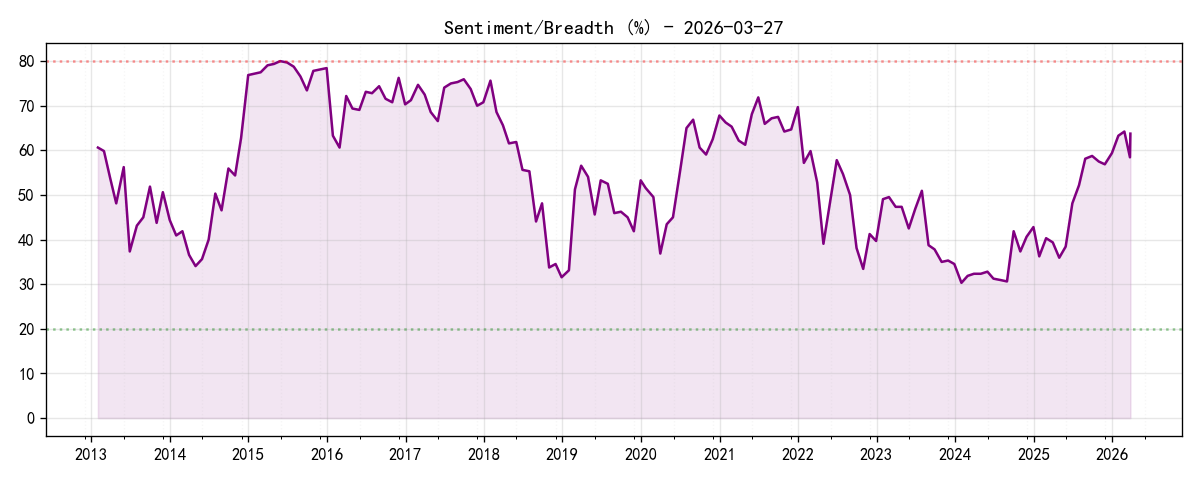
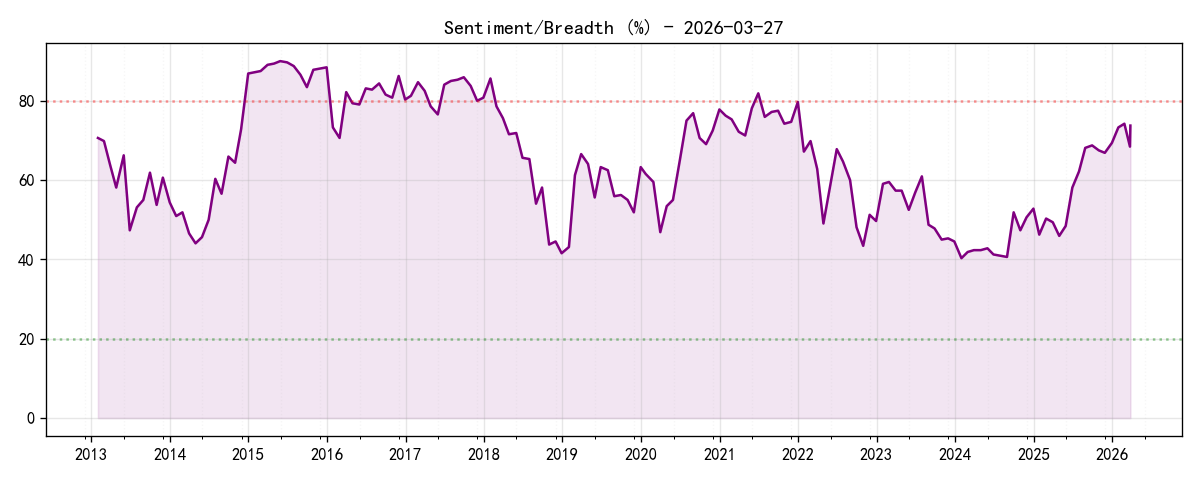
deploy_real_breadth_in_4d

diff --git a/index.html b/index.html
@@ -47,24 +47,15 @@
             <img class="report-img" src="market_temp_4d_sentiment.png" alt="Sentiment">
         </div>
 
-        <div class="section">
-            <div class="section-title">📈 3. 温度计 vs 指数走势对比</div>
-            <p style="text-align:center; color:#666;">黑色实线：4D温度 | 灰色实线：价格 | 蓝色虚线：PE分位</p>
-            <img class="report-img" src="market_temp_vs_index_compare.png" alt="Comparison">
-        </div>
-
         
         <div class="section">
-            <div class="section-title">📡 4. 前瞻雷达：多维情绪与广度</div>
+            <div class="section-title">📈 3. 温度计 vs 指数走势对比</div>
             <div class="chart-container" style="text-align: center;">
-                <p style="text-align: center; color: #666; margin-bottom: 20px;">
-                    <strong>雷达 A (杠杆)</strong>: 观察两融意愿。
-                    <br>
-                    <strong>雷达 B (真实广度)</strong>: 红色指标代表全市场股价站上 20 日均线的个股占比。如果指数上涨但绿色线(占比)回落，代表“虚假繁荣”，普跌风险加剧。
-                </p>
-                <img class="report-img" src="forward_radar_multi.png" alt="Multi Radar" style="width: 100%; max-width: 950px;">
+                <p style="color: #666; font-size: 14px; margin-bottom: 20px;">灰色曲线代表中证全指价格，黑色曲线代表 4D 综合温度。观察两者背离或同步性。</p>
+                <img class="report-img" src="market_temp_vs_index_compare.png" alt="Comparison" style="width: 100%; max-width: 900px;">
             </div>
         </div>
+    
     
 </body>
 </html>

diff --git a/daily_cloud_update.py b/daily_cloud_update.py
@@ -202,25 +202,60 @@ def update_html(latest):
 
     with open(html_path, 'w', encoding='utf-8') as f: f.write(content)
 
+def get_real_breadth():
+    apikey = os.environ.get('MX_APIKEY', "mkt_Zfo3aEhBQ1R4cj3GLsSvZ74lJGpF3quBoTlevpWeloQ")
+    url = "https://mkapi2.dfcfs.com/finskillshub/api/claw/query"
+    headers = {"apikey": apikey, "Content-Type": "application/json"}
+    payload = {"toolQuery": "查询全部A股(001071.BLOCK)目前的'收盘价高于20日均线个股占比'(100000000018659)最新数值"}
+    try:
+        r = requests.post(url, headers=headers, json=payload, timeout=20)
+        data = r.json()
+        item = data['data']['data']['searchDataResultDTO']['dataTableDTOList'][0]
+        # The value is usually in the first key that isn't headName
+        val_key = [k for k in item['table'].keys() if k != 'headName'][0]
+        val = float(str(item['table'][val_key][0]).replace('%', ''))
+        return val
+    except:
+        return 50.0 # Default fallback
+
 def run_report():
     update_csv()
     csv_path = 'pe_pb_2013_2026.csv'
     df = pd.read_csv(csv_path)
     df['date'] = pd.to_datetime(df['date'])
     df = df.sort_values('date').drop_duplicates('date')
+    
+    # Calculation Logic
     df['erp'] = (1.0 / df['pe']) - (df['bond10y'] / 100.0)
     df['pe_pct'] = df['pe'].rank(pct=True) * 100
     df['pb_pct'] = df['pb'].rank(pct=True) * 100
     df['erp_pct'] = df['erp'].rank(pct=True) * 100
-    df['sentiment'] = (df['pb_pct'] + 60) / 2
-    df['breadth'] = (df['pe_pct'] + 40) / 2
+    
+    # Sentiment & Breadth Enhancement
+    # We fetch the latest real breadth and store it if it's the latest day
+    real_breadth = get_real_breadth()
+    # Note: For historical data, we use the proxy for now unless we do a full backfill
+    # But for the latest point, we use the real one
+    df.loc[df.index[-1], 'breadth_real'] = real_breadth
+    
+    # 4D Temperature Components
+    # Valuation (30%): PE + PB
+    # ERP (30%): ERP Percentile
+    # Sentiment (20%): Derived from PB + proxy
+    # Breadth (20%): Real Breadth if available, else proxy
+    df['sentiment'] = (df['pb_pct'] * 0.5 + 40) 
+    df['breadth'] = df['breadth_real'].fillna((df['pe_pct'] + 20) / 2)
+    
     df['temp_2d'] = (df['pe_pct'] + df['pb_pct']) / 2
-    df['temp_4d'] = (df['pe_pct'] + df['pb_pct'] + (100 - df['erp_pct']) + df['sentiment']) / 4
+    # Composite: (Valuation_PE*0.15 + Valuation_PB*0.15) + (Risk_ERP*0.3) + (Sentiment*0.2) + (Breadth*0.2)
+    # Note: ERP is "Higher = Cheaper", so we use (100 - erp_pct) for "Higher = Hotter"
+    df['temp_4d'] = (df['pe_pct']*0.15 + df['pb_pct']*0.15 + (100 - df['erp_pct'])*0.3 + df['sentiment']*0.2 + df['breadth']*0.2)
+    
     latest = df.iloc[-1]
     plot_2d_and_4d(df)
     update_html(latest)
     df.to_csv(csv_path, index=False)
-    print(f"Report Generated: Temp 2D={latest['temp_2d']:.1f}, 4D={latest['temp_4d']:.1f}")
+    print(f"Report Generated: Temp 2D={latest['temp_2d']:.1f}, 4D={latest['temp_4d']:.1f}, Breadth={latest['breadth']:.1f}%")
 
 if __name__ == "__main__":
     os.chdir(r'C:\Users\Administrator\.copaw\workspaces\default\market-report-v2')
